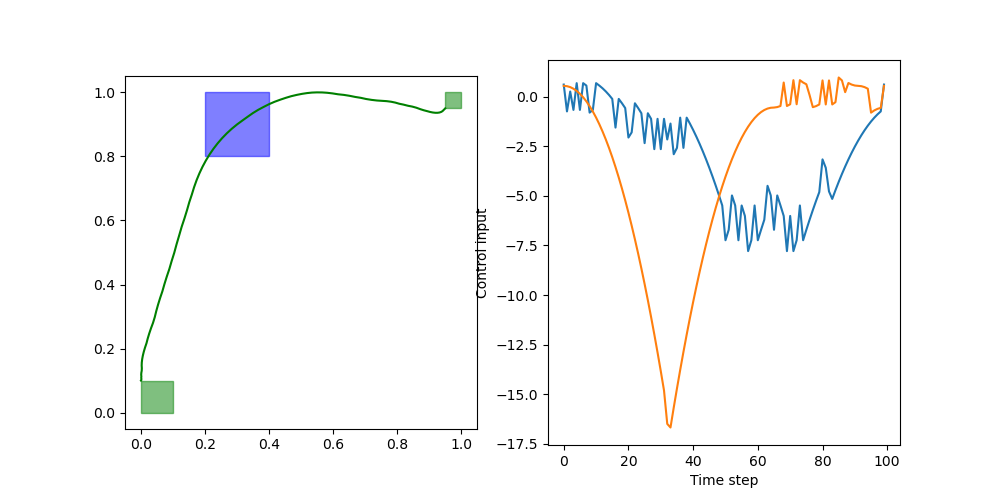
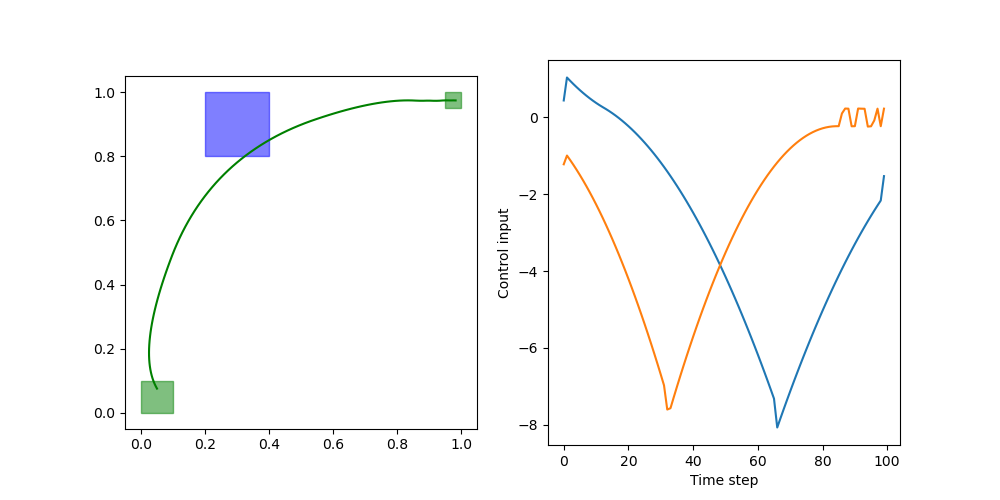
added stl planner (no nesting yet)

diff --git a/Planning/main.py b/Planning/main.py
@@ -8,37 +8,57 @@ import gurobipy as gp
 scs = {getattr(gp.GRB.status,k): k for k in dir(gp.GRB.status) if k[0].isupper()}
 
 import casadi as cs
-
 import os
 import sys
 parent_dir = os.path.abspath(os.path.join(os.path.dirname(__file__), '..'))
 sys.path.insert(0, parent_dir)
 from Utilities.Robots import FreeFlyer, BlueROV, BlueROV2
-from Utilities.helpers import HyperRectangle
+from Utilities.helpers import HyperRectangle, Polytope
+from Utilities.stl import Pred, Spec, quant_parse_operator
+
+class OptProbItems:
+    def __init__(self, x_vars:gp.Var, u_vars:gp.Var, times:np.ndarray):
+        self.x_vars = x_vars
+        self.u_vars = u_vars
+        self.times = times
 
 # hyperparameters
 N = 100     # number of time steps
 dt = 0.1    # time step size
+t0 = 0      # initial time
+tf = N*dt   # final time
+
 bigM = 1e4
 
-# specification
-X0 = HyperRectangle(np.array([0, 0, 0, 0]), np.array([0.1, 0.1, 0, 0]))
-Xf = HyperRectangle(np.array([0.95, 0.95, 0, 0]), np.array([1, 1, 0, 0]))
-XA = HyperRectangle(np.array([0.2, 0.8, -0.1, -0.1]), np.array([0.4, 1.0, 0.1, 0.1]))
-
-Obs = [HyperRectangle(np.array([0.4, -0.1, 0, 0]), np.array([0.6, 0.6, 0, 0])),
-       HyperRectangle(np.array([0.75, 0.5, 0, 0]), np.array([0.9, 1.1, 0, 0]))]
-
-World = HyperRectangle(np.array([0, 0, -bigM, -bigM]), np.array([1, 1, bigM, bigM]))
-# robot
+# Robot
 sp_robot = FreeFlyer()
+
+# Specification
+X0 = HyperRectangle(np.array([0, 0, -0.1, -0.1]), np.array([0.1, 0.1, 0.1, 0.1]))
+Xf = HyperRectangle(np.array([0.95, 0.95, -0.1, -0.1]), np.array([1, 1, 0.1, 0.1]))
+XA = HyperRectangle(np.array([0.2, 0.8, -1, -1]), np.array([0.4, 1.0, 1, 1]))
+Obs = [HyperRectangle(np.array([0.4, -0.1, -np.inf, -np.inf]), np.array([0.6, 0.6, np.inf, np.inf])),
+       HyperRectangle(np.array([0.75, 0.5, -np.inf, -np.inf]), np.array([0.9, 1.1, np.inf, np.inf]))]
+World = HyperRectangle(np.array([0, 0, -bigM, -bigM]), np.array([1, 1, bigM, bigM]))
+
+phi = Pred("AND", preds=[
+    Pred("G", [t0,t0], preds=[Pred("MU", preds=[Polytope(X0)])]),
+    Pred("G", [tf,tf], preds=[Pred("MU", preds=[Polytope(Xf)])]),
+    Pred("F", [t0,tf], preds=[Pred("MU", preds=[Polytope(XA)])]),
+    Pred("G", [t0,tf], preds=[Pred("MU", preds=[Polytope(World)])]),
+])
+spec = Spec(phi, t0, tf)
+
 
 # create planner
 if True:
     opt = gp.Model("prob1")
-    x_vars = opt.addMVar((N, sp_robot.n_x), lb=-np.inf, ub=np.inf, name="x")
-    u_vars = opt.addMVar((N, sp_robot.n_u), lb=-np.inf, ub=np.inf, name="u")
+    x_vars = opt.addMVar((N, sp_robot.n_x), lb=-np.inf, ub=np.inf, name="X")
+    u_vars = opt.addMVar((N, sp_robot.n_u), lb=-np.inf, ub=np.inf, name="U")
+    times = np.linspace(0, tf, N)
+
     alpha_vars = opt.addVar(lb=0, ub=1, name="alpha")
+    opt.update()
 
     for i in range(N):
         opt.addConstrs((u_vars[i, j] >= alpha_vars*sp_robot.U.lower_bounds[j] for j in range(2)))
@@ -46,45 +66,21 @@ if True:
 
     # constraints
     opt.addConstrs((x_vars[i+1,:] == sp_robot.step(x_vars[i, :], u_vars[i, :], dt) for i in range(N-1)))
-    opt.addConstrs((x_vars[i, :] >= World.lower_bounds for i in range(N)))
-    opt.addConstrs((x_vars[i, :] <= World.upper_bounds for i in range(N)))
 
-    opt.addConstr(x_vars[0, :] >= X0.lower_bounds)
-    opt.addConstr(x_vars[0, :] <= X0.upper_bounds)
-    opt.addConstr(x_vars[-1, :] >= Xf.lower_bounds)
-    opt.addConstr(x_vars[-1, :] <= Xf.upper_bounds)
+    X = [var for var in opt.getVars() if "X" in var.VarName]
 
-    # spatial robustness of the specification (stay-in at N/2)
-    # opt.addConstr(x_vars[int(N/2), :] >= XA.lower_bounds)
-    # opt.addConstr(x_vars[int(N/2), :] <= XA.upper_bounds)
-    delta = opt.addVar(lb=0, ub=np.inf, name="spatial_robustness")
-    for face_idx in range(len(XA.b)):
-        c = -XA.A[face_idx, :]@x_vars[int(N/2), 0:2] + XA.b[face_idx]
-        opt.addConstr(c >= delta)
+    items = OptProbItems(x_vars, u_vars, times)
+    quant_parse_operator(opt, spec.phi, items)
 
-    # for obs in Obs:
-    #     z_vars = opt.addMVar((N, 4), vtype=gp.GRB.BINARY, name="z")
-    #     for i in range(N):
-    #         # x_vars[i,0:2] should be outside one of the faces of the obstacle
-    #         opt.addConstr(x_vars[i,0] <= obs.lower_bounds[0] + bigM*(1-z_vars[i,0]))
-    #         opt.addConstr(x_vars[i,0] >= obs.upper_bounds[0] - bigM*(1-z_vars[i,1]))
-    #         opt.addConstr(x_vars[i,1] <= obs.lower_bounds[1] + bigM*(1-z_vars[i,2]))
-    #         opt.addConstr(x_vars[i,1] >= obs.upper_bounds[1] - bigM*(1-z_vars[i,3]))
-    #         opt.addConstr(gp.quicksum(z_vars[i,:]) >= 1)
-
-    # objective
-    # quad_cost = 0
-    # for i in range(N):
-    #     quad_cost += u_vars[i,0]*u_vars[i,0] + u_vars[i,1]*u_vars[i,1]
-    
     cost_var = opt.addVar(lb=-np.inf, ub=np.inf, name="cost")
-    opt.addConstr(cost_var == 100*alpha_vars - 10000*delta) # quad_cost
+    opt.addConstr(cost_var == 1*alpha_vars - 100*spec.phi.rho) # quad_cost
     opt.setObjective(cost_var, gp.GRB.MINIMIZE)
     opt.setParam('OutputFlag', 0)  # Suppress Gurobi output
     opt.optimize()
     if opt.status == gp.GRB.OPTIMAL:
         print(f"Optimal solution found")
         print(f"\nAlpha from solving Prob 1: {alpha_vars.X}")
+        print(f"Spatial robustness: {spec.phi.rho.X}")
         print(f"This is how much control is necessary to satisfy the specification")
     else:
         print(f"No optimal solution found")

diff --git a/Utilities/stl.py b/Utilities/stl.py
@@ -1,0 +1,140 @@
+import gurobipy as gp
+
+def in_interval(items, I, i):
+    t = items.times[i]
+    return I[0] <= t <= I[1]
+
+class Pred():
+    def __init__(self, type, I=[0,0], preds=[]):
+        self.type = type
+        self.I = I          # Time interval
+        self.preds = preds  # List of child predicates (e.g. \phi1 Until_I \phi2 -> preds=[\phi1, \phi2])
+        self.rho = None     # Variable for the satisfaction degree
+        self.rhos = None    # Variables for the satisfaction degree in MU operator
+        self.area = None    # Area for MU operator
+    def print(self):
+        return f"{self.type}_[{self.I[0]},{self.I[1]}]"
+    
+class Spec():
+    def __init__(self, phi, t0, tf):
+        self.phi = phi
+        self.t0 = t0
+        self.tf = tf
+
+
+def quant_parse_operator(opt:gp.Model,pred:Pred, items):
+    print(f"\ntype: {pred.type}")
+    try:
+        for predi in pred.preds:
+            print(f"type in loop: {predi.type}")
+            quant_parse_operator(opt,predi, items)
+    except:
+        pass
+        print("reached the end")
+
+    if pred.type == "AND":
+        quant_AND(opt,pred,items)
+
+    elif pred.type == "OR":
+        quant_OR(opt,pred,items)
+
+    elif pred.type == "F":
+        quant_EVENTUALLY(opt,pred,items)
+
+    elif pred.type == "G":
+        quant_ALWAYS(opt,pred,items)
+
+    elif pred.type == "U":
+        quant_UNTIL(opt,pred,items)
+
+    elif pred.type == "MU":
+        quant_MU(opt,pred,items)
+
+    else:
+        ValueError(f"Unknown operator {pred.type}")
+
+
+def quant_AND(opt:gp.Model, pred:Pred, items):
+    pred.rho = opt.addVar(vtype=gp.GRB.CONTINUOUS, lb=-gp.GRB.INFINITY, ub=gp.GRB.INFINITY, 
+                          name=f"rho_AND_{pred.print()}")
+    try:
+        rhos = [p.rho for p in pred.preds]
+        print(f"rhos: {rhos}")
+        opt.addConstr(pred.rho == gp.min_(rhos), name=f"rho_AND_{pred.print()}")
+    except Exception as e:
+        print(f"Error in quant_AND: {e}")
+    opt.update()
+
+def quant_OR(opt:gp.Model, pred:Pred, items):
+    pred.rho = opt.addVar(vtype=gp.GRB.CONTINUOUS, lb=-gp.GRB.INFINITY, ub=gp.GRB.INFINITY, 
+                          name=f"rho_OR_{pred.print()}")
+    try:
+        rhos = [p.rho for p in pred.preds]
+        opt.addConstr(pred.rho == gp.max_(rhos), name=f"rho_OR_{pred.print()}")
+    except Exception as e:
+        print(f"Error in quant_OR: {e}")
+    opt.update()
+
+def quant_EVENTUALLY(opt:gp.Model, pred:Pred, items):
+    pred.rho = opt.addVar(vtype=gp.GRB.CONTINUOUS, lb=-gp.GRB.INFINITY, ub=gp.GRB.INFINITY, 
+                          name=f"rho_F_{pred.print()}")
+    try:
+        rhos = []
+        for p in pred.preds:
+            for i in range(p.rhos.shape[0]):
+                if in_interval(items, pred.I, i):
+                    rhos.append(p.rhos[i])
+        opt.addConstr(pred.rho == gp.max_(rhos), name=f"rho_F_{pred.print()}")
+    except Exception as e:
+        print(f"Error in quant_EVENTUALLY: {e}")
+    opt.update()
+
+def quant_ALWAYS(opt:gp.Model, pred:Pred, items):
+    pred.rho = opt.addVar(vtype=gp.GRB.CONTINUOUS, lb=-gp.GRB.INFINITY, ub=gp.GRB.INFINITY, 
+                          name=f"rho_G_{pred.print()}")
+    try:
+        rhos = []
+        for p in pred.preds:
+            for i in range(p.rhos.shape[0]):
+                check = in_interval(items, pred.I, i)
+                if check:
+                    rhos.append(p.rhos[i])
+        print(f"rhos: {rhos}")
+        opt.addConstr(pred.rho == gp.min_(rhos), name=f"min_rhos_G_{pred.print()}")
+    except Exception as e:
+        print(f"Error in quant_ALWAYS: {e}")
+    opt.update()
+
+def quant_UNTIL(opt:gp.Model, pred:Pred, items):
+    pred.rho = opt.addVar(vtype=gp.GRB.CONTINUOUS, name=f"rho_U_{pred.print()}")
+    try:
+        rhos = []
+        for i in range(len(pred.preds[0].rhos)):
+            if in_interval(items, pred.I, i):
+                rho = opt.addVar(vtype=gp.GRB.CONTINUOUS, name=f"rho_U_{pred.print()}_i{i}")
+                rhos.append(rho)
+                rho_phi1 = opt.addVar(vtype=gp.GRB.CONTINUOUS, name=f"rho_phi1_{pred.preds[0].print()}_i{i}")
+                opt.addConstr(rho_phi1 == gp.min_([r for r in pred.preds[0].rhos[0:i+1]]))
+                opt.addConstr(rho == gp.min_([pred.preds[1].rhos[i], rho_phi1]))
+        opt.addConstr(pred.rho == gp.max_(rhos), name=f"rho_U_{pred.print()}")
+    except Exception as e:
+        print(f"Error in quant_UNTIL: {e}")
+
+def quant_MU(opt:gp.Model, pred:Pred, items):
+    print(f"quant_MU: {pred.print()}")
+    N = items.x_vars.shape[0]
+    N_faces = pred.preds[0].N_faces
+
+    pred.rhos = opt.addMVar((N,), vtype=gp.GRB.CONTINUOUS, lb=-gp.GRB.INFINITY, ub=gp.GRB.INFINITY, 
+                            name=f"rho_MU_{pred.print()}")
+    try:
+        for i in range(N):
+            for face in range(N_faces):
+                for cp in [i, min(i+1,N-1)]:
+                    ineqs = pred.preds[0].H @ items.x_vars[cp,:] - pred.preds[0].b
+                    # c should be greater than 0 for satisfaction
+                    opt.addConstr(ineqs[face] <= -pred.rhos[i], name=f"rho_MU_{pred.print()}_i{cp}_face{face}")
+    except Exception as e:
+        print(f"Error in quant_MU: {e}")
+    opt.update()
+

diff --git a/Utilities/helpers.py b/Utilities/helpers.py
@@ -2,6 +2,7 @@ import numpy as np
 import matplotlib.pyplot as plt
 import matplotlib.patches as patches
 from scipy.spatial import ConvexHull
+import gurobipy as gp
 
 class HyperRectangle():
     def __init__(self, lower_bounds:np.ndarray, upper_bounds:np.ndarray):
@@ -77,14 +78,38 @@ class Zonotope():
         poly.set_label(label)
         ax.add_patch(poly)
 
-        # if self.Gdiag is not None:
-        #     # make a rectangle from the center x and the widths in each 
-        #     # dimension given by the diagonal of G
-        #     # we plot only 2D
-        #     eps = 1e-4
-        #     rect = patches.Rectangle((self.x[0]-self.Gdiag[0], self.x[1]-self.Gdiag[1]),
-        #                        2*self.Gdiag[0]+eps, 2*self.Gdiag[1]+eps,
-        #                        color=color, alpha=alpha)
-        #     rect.set_label(label)
-        #     ax.add_patch(rect)
-            
+class Polytope():
+    def __init__(self, H:np.ndarray, b:np.ndarray):
+        self.H = H
+        self.b = b
+        self.dim = H.shape[1]
+        self.N_faces = H.shape[0]  # Number of faces in the area
+    
+    def __init__(self, rectangle:HyperRectangle):
+        self.dim = len(rectangle.lower_bounds)
+        self.N_faces = 2 * self.dim
+        self.H = np.zeros((self.N_faces, self.dim))
+        self.b = np.zeros(self.N_faces)
+        for i in range(self.dim):
+            self.H[i, i] = -1
+            self.b[i] = -rectangle.lower_bounds[i]
+            self.H[i + self.dim, i] = 1
+            self.b[i + self.dim] = rectangle.upper_bounds[i]
+        print(f"Polytope created with {self.N_faces} faces and dimension {self.dim}")
+
+    def print(self):
+        return f"Area_[faces={self.N_faces}]"
+
+    def constrain_point_inside(self, prog:gp.Model, point:gp.Var):
+        for i in range(self.N_faces):
+            prog.addConstr(self.H[i, 0:self.dim] @ point[0:self.dim] <= self.b[i])
+
+    def constrain_point_outside(self, prog:gp.Model, point:gp.Var):
+        zs = prog.addVars(self.N_faces, vtype=gp.GRB.BINARY, name="zs")
+        for i in range(self.N_faces):
+            prog.addConstr(self.H[i, 0:self.dim] @ point[0:self.dim] >= self.b[i] - (1 - zs[i]) * 1e6)
+        prog.addConstr(gp.quicksum([z for z in zs]) >= 1, name="at_least_one_face_outside")
+    
+    def plot(self, ax:plt.Axes, color='blue', alpha=0.5, label=""):
+        # todo
+        pass

diff --git a/tests/polytopes.py b/tests/polytopes.py
@@ -1,0 +1,18 @@
+import pypolycontain as pp
+import numpy as np
+
+
+# range from 0 to 2 pi
+theta = np.linspace(0, 2*np.pi, 100)
+
+# plot 2*cos(theta) and 2*sin(theta)
+x = 2 * np.abs(np.cos(theta))
+y = 2 * np.abs(np.sin(theta))
+
+import matplotlib.pyplot as plt
+
+plt.plot(theta, x+y)
+plt.axis('equal')
+plt.xlabel('theta')
+plt.ylabel('2*cos(theta) + 2*sin(theta)')
+plt.show()

diff --git a/tests/column_space.py b/tests/column_space.py
@@ -14,8 +14,6 @@ D = Zonotope(x=np.zeros((2,)), Gdiag=np.array([0.4, 0.4]))
 
 # check if B is in the column space of C
 # find a matrix K such that B = CK
-
-
 def exists_K(B, C, tol=1e-8):
     # Check if each column of B lies in the column space of 
     for i in range(B.shape[1]):
